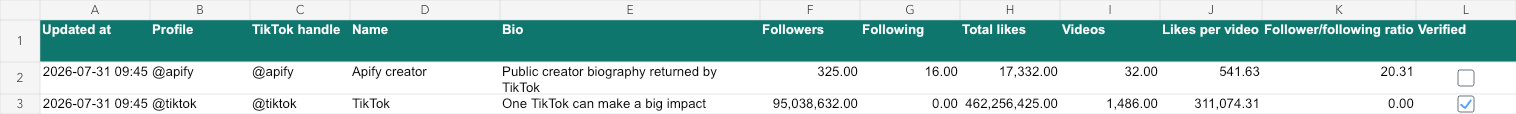
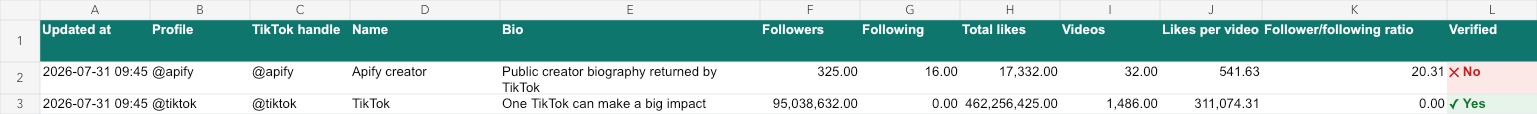
fix: replace TikTok booleans with readable states

diff --git a/workflows/tiktok-creator-growth-monitor/README.md b/workflows/tiktok-creator-growth-monitor/README.md
@@ -13,9 +13,11 @@ trigger. It works on n8n Cloud or self-hosted n8n and does not use OpenAI.
 
 Create one spreadsheet with three tabs.
 
-Format `Updated at` and `Snapshot at` as date-time columns. Format `Active` and
-`Verified` as checkbox columns. Snapshot keys are written as readable values
-such as `@apify | 2026-07-31 09:46:23 UTC`.
+Format `Updated at` and `Snapshot at` as date-time columns. Use `Active` or
+`Paused` in the watchlist control column. `Verified` is written as `✓ Yes` or
+`✕ No`; optional conditional formatting can color these green and red.
+Snapshot keys are written as readable values such as
+`@apify | 2026-07-31 09:46:23 UTC`.
 
 ### Creators
 
@@ -26,12 +28,12 @@ Active | TikTok handle or URL | Label | Minimum followers | Maximum followers | 
 Example rows:
 
 ```text
-TRUE | tiktok | Brand account | 0 | 1000000000 | 5 | 1000
-TRUE | https://www.tiktok.com/@apify | Technology | 1000 | 500000 | 5 | 500
+Active | tiktok | Brand account | 0 | 1000000000 | 5 | 1000
+Active | https://www.tiktok.com/@apify | Technology | 1000 | 500000 | 5 | 500
 ```
 
-Blank `Active` values are treated as active. Use `FALSE`, `No`, `0`, or
-`inactive` to skip a row. Qualification is deterministic: a creator is
+Blank `Active` values are treated as active. Use `Paused` to skip a row.
+`FALSE`, `No`, `0`, and `inactive` also remain supported. Qualification is deterministic: a creator is
 `Qualified`, `Below minimum`, `Above maximum`, or `Needs review`.
 
 ### Current Profiles

diff --git a/workflows/tiktok-profiles-to-google-sheets/README.md b/workflows/tiktok-profiles-to-google-sheets/README.md
@@ -30,9 +30,10 @@ Updated at | Profile | TikTok handle | Name | Bio | Followers | Following | Tota
    time column. Publish the workflow only after the test succeeds to enable its
    daily 09:00 schedule.
 
-For a cleaner Sheet, format `Verified`, `Private account`, `Commerce account`,
-`TikTok seller`, and `Live now` as checkbox columns. Format `User ID` as plain
-text so long numeric IDs remain consistently aligned.
+`Verified`, `Private account`, `Commerce account`, `TikTok seller`, and `Live
+now` are written as `✓ Yes` or `✕ No`. Optional Google Sheets conditional
+formatting can display Yes with a pale green fill and No with a pale red fill.
+Format `User ID` as plain text so long numeric IDs remain consistently aligned.
 
 ## Output
 
